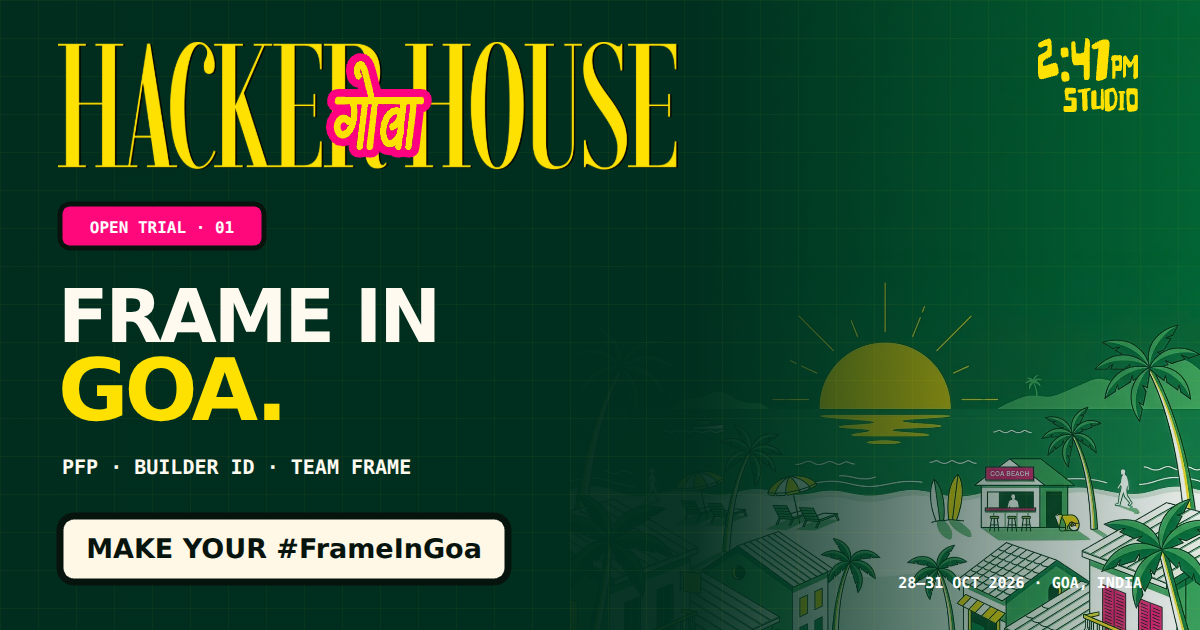
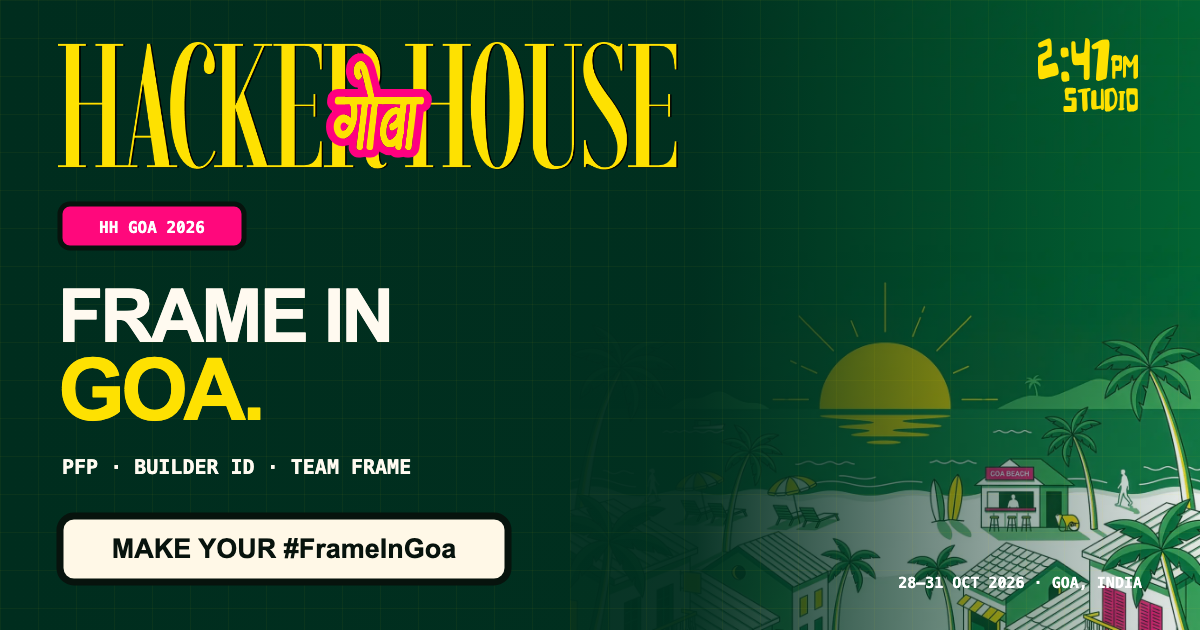
updated ui

diff --git a/src/lib/drawCard.js b/src/lib/drawCard.js
@@ -11,7 +11,10 @@ export const PALETTES = {
     panel: '#FFF8E7',
     ink: '#0B1611',
     green: '#08733F',
-    accent: '#FFD400',
+    // Sampled straight out of the official wordmark PNG. The palette used to carry
+    // #FFD400 here while the logo fallbacks hardcoded #FEE101, so two different
+    // yellows were shipping side by side.
+    accent: '#FEE101',
     pop: '#FF087C',
     soft: '#D9F4DF',
   },
@@ -59,11 +62,10 @@ export function getBuilderId(name, role) {
   return `HHG26-${initials}-${getPassNumber(name, role).slice(-4)}`;
 }
 
-// A teammate only counts once they have both a photo and a name, so the preview
-// shows exactly what the download will contain.
-export function getTeamRoster(teamMembers = []) {
-  const ready = teamMembers.filter((member) => member.photo?.image && member.name.trim());
-  return ready.length >= 2 ? ready.slice(0, 4) : [];
+// A slot is only ready to print once it has both a photo and a name. The preview
+// still draws every slot you have added, so adding one is visible immediately.
+export function isMemberComplete(member) {
+  return Boolean(member?.photo?.image && member?.name?.trim());
 }
 
 function roundedRect(ctx, x, y, width, height, radius, fill, stroke, strokeWidth = 0) {
@@ -280,6 +282,19 @@ function drawStudioMark(ctx, assets, x, y, width, height) {
   ctx.fillText('2:47PM', x + width / 2, y + height / 2);
 }
 
+// A panel with a colour strip down its leading edge. The strip is clipped to the
+// rounded path so it stops poking out past the corner radius.
+function drawEdgePanel(ctx, x, y, width, height, radius, fill, edge, edgeWidth, stroke, strokeWidth) {
+  roundedRect(ctx, x, y, width, height, radius, fill);
+  ctx.save();
+  roundedRect(ctx, x, y, width, height, radius);
+  ctx.clip();
+  ctx.fillStyle = edge;
+  ctx.fillRect(x, y, edgeWidth, height);
+  ctx.restore();
+  if (stroke && strokeWidth) roundedRect(ctx, x, y, width, height, radius, null, stroke, strokeWidth);
+}
+
 function drawTape(ctx, x, y, width, height, rotation, color) {
   ctx.save();
   ctx.translate(x + width / 2, y + height / 2);
@@ -328,11 +343,11 @@ function drawPfp(ctx, state, palette) {
   drawBrandLockup(ctx, state.brandAssets, 76, 38, 760, 148);
   drawStudioMark(ctx, state.brandAssets, 900, 46, 112, 92);
 
-  roundedRect(ctx, 78, 184, 260, 54, 18, palette.pop, palette.ink, 6);
+  roundedRect(ctx, 78, 184, 230, 54, 18, palette.pop, palette.ink, 6);
   ctx.fillStyle = '#FFFFFF';
   ctx.font = '800 18px "Space Mono", monospace';
   ctx.textAlign = 'center';
-  ctx.fillText('OPEN TRIAL · 01', 208, 219);
+  ctx.fillText('HH GOA 2026', 193, 219);
 
   ctx.fillStyle = palette.accent;
   ctx.textAlign = 'right';
@@ -365,20 +380,20 @@ function drawPfp(ctx, state, palette) {
   drawTape(ctx, 114, 400, 170, 48, -0.14, palette.accent);
   drawTape(ctx, 790, 738, 170, 48, 0.12, palette.accent);
 
+  // Brand yellow on the dark panel, the way the wordmark is set. Yellow on the old
+  // cream panel would have been about 1.4:1 and unreadable.
   const badge = (badgeText || 'FRAME IN GOA').toUpperCase().slice(0, 36);
-  roundedRect(ctx, 108, 872, 864, 112, 20, palette.panel, palette.ink, 9);
-  ctx.fillStyle = palette.pop;
-  ctx.fillRect(108, 872, 18, 112);
-  ctx.fillStyle = palette.ink;
+  drawEdgePanel(ctx, 108, 872, 864, 112, 20, palette.ink, palette.pop, 18, palette.accent, 9);
+  ctx.fillStyle = palette.accent;
   ctx.textAlign = 'center';
   const badgeSize = fitText(ctx, badge, 760, 42, 24, 'Syne', 800);
   ctx.font = `800 ${badgeSize}px "Syne", sans-serif`;
   ctx.fillText(badge, 548, 938);
 
-  roundedRect(ctx, 290, 990, 500, 52, 16, palette.ink, palette.accent, 4);
-  ctx.fillStyle = '#FFFFFF';
+  roundedRect(ctx, 350, 990, 380, 52, 16, palette.panel, palette.ink, 4);
+  ctx.fillStyle = palette.ink;
   ctx.font = '800 20px "Space Mono", monospace';
-  ctx.fillText('HHGOA.COM  ·  TASK 01', 540, 1024);
+  ctx.fillText('HHGOA.COM', 540, 1024);
 }
 
 function drawPass(ctx, state, palette) {
@@ -400,11 +415,11 @@ function drawPass(ctx, state, palette) {
   ctx.fillText('28–31 OCT 2026', 1016, 172);
   ctx.fillText('GOA, INDIA', 1016, 198);
 
-  roundedRect(ctx, 66, 190, 392, 56, 18, palette.pop, palette.ink, 6);
+  roundedRect(ctx, 66, 190, 240, 56, 18, palette.pop, palette.ink, 6);
   ctx.fillStyle = '#FFFFFF';
   ctx.font = '800 19px "Space Mono", monospace';
   ctx.textAlign = 'center';
-  ctx.fillText('OPEN TRIAL · BUILDER ID', 262, 226);
+  ctx.fillText('BUILDER ID', 186, 226);
 
   roundedRect(ctx, 62, 266, 596, 632, 20, palette.panel, palette.ink, 10);
   drawPhotoCover(ctx, state.photo, 84, 288, 552, 516, 10);
@@ -457,9 +472,7 @@ function drawPass(ctx, state, palette) {
   ctx.font = '800 16px "Space Mono", monospace';
   ctx.fillText(builderId, 710, 854);
 
-  roundedRect(ctx, 62, 924, 956, 134, 18, palette.panel, palette.ink, 10);
-  ctx.fillStyle = palette.pop;
-  ctx.fillRect(62, 924, 18, 134);
+  drawEdgePanel(ctx, 62, 924, 956, 134, 18, palette.panel, palette.pop, 18, palette.ink, 10);
   ctx.fillStyle = palette.ink;
   ctx.textAlign = 'left';
   const nameSize = fitText(ctx, name, 850, 72, 42, 'Syne', 800);
@@ -479,13 +492,9 @@ function drawPass(ctx, state, palette) {
   // Seat the footer on a solid strip. Left over bare artwork it was unreadable.
   roundedRect(ctx, 62, 1212, 956, 84, 18, palette.ink, palette.accent, 5);
   ctx.fillStyle = palette.accent;
-  ctx.textAlign = 'left';
+  ctx.textAlign = 'center';
   ctx.font = '800 22px "Space Mono", monospace';
-  ctx.fillText('HHGOA.COM', 96, 1262);
-  ctx.textAlign = 'right';
-  ctx.fillStyle = '#FFFFFF';
-  ctx.font = '700 16px "Space Mono", monospace';
-  ctx.fillText('TASK 01', 984, 1262);
+  ctx.fillText('HHGOA.COM', 540, 1262);
 }
 
 // Every layout fills the frame down to y=1106 so no arrangement leaves a dead gap
@@ -513,8 +522,9 @@ function getSquadLayout(count) {
 }
 
 function drawSquad(ctx, state, palette) {
-  const roster = getTeamRoster(state.teamMembers);
-  const visibleMembers = roster.length ? roster : state.teamMembers.slice(0, 2);
+  // Draw every slot the user has added, filled in or not, so adding or removing a
+  // teammate changes the frame straight away.
+  const visibleMembers = state.teamMembers.slice(0, 4);
   const teamName = (state.teamName || 'YOUR CREW').trim().toUpperCase();
   const layout = getSquadLayout(visibleMembers.length);
 
@@ -529,9 +539,7 @@ function drawSquad(ctx, state, palette) {
   ctx.fillText('28–31 OCT 2026', 1016, 170);
   ctx.fillText('GOA, INDIA', 1016, 196);
 
-  roundedRect(ctx, 64, 188, 952, 100, 20, palette.panel, palette.ink, 9);
-  ctx.fillStyle = palette.pop;
-  ctx.fillRect(64, 188, 18, 100);
+  drawEdgePanel(ctx, 64, 188, 952, 100, 20, palette.panel, palette.pop, 18, palette.ink, 9);
   ctx.fillStyle = palette.ink;
   ctx.textAlign = 'left';
   const teamSize = fitText(ctx, teamName, 700, 56, 32, 'Syne', 800);

diff --git a/src/App.jsx b/src/App.jsx
@@ -1,7 +1,7 @@
 import React, { useEffect, useMemo, useRef, useState } from 'react';
 import Header from './components/Header.jsx';
 import BuilderCanvas from './components/BuilderCanvas.jsx';
-import { getBuilderClass, getTeamRoster, OUTPUT_SIZES } from './lib/drawCard.js';
+import { getBuilderClass, isMemberComplete, OUTPUT_SIZES } from './lib/drawCard.js';
 
 const MODES = [
   {
@@ -254,12 +254,30 @@ export default function App() {
   }), [badgeText, name, photo, role, teamMembers, teamName]);
 
   const builderClass = getBuilderClass(name, role);
-  const completeTeamMembers = getTeamRoster(teamMembers);
+  const completeTeamMembers = teamMembers.filter(isMemberComplete);
+  // Every slot on the frame has to be filled, so what you see in the preview is
+  // what comes out of the download.
+  const teamReady = teamMembers.length >= 2 && completeTeamMembers.length === teamMembers.length;
   const canGenerate = mode === 'pfp'
     ? Boolean(photo)
     : mode === 'pass'
       ? Boolean(photo && name.trim() && role.trim())
-      : Boolean(teamName.trim() && completeTeamMembers.length >= 2);
+      : Boolean(teamName.trim() && teamReady);
+
+  // Say exactly which slot is short of what, rather than one vague sentence.
+  const describeTeamGap = () => {
+    if (!teamName.trim()) return 'Give the team a name first.';
+    const gaps = teamMembers.flatMap((member, index) => {
+      const missing = [];
+      if (!member.name.trim()) missing.push('a name');
+      if (!member.photo?.image) missing.push('a photo');
+      return missing.length
+        ? [`Builder ${String(index + 1).padStart(2, '0')} still needs ${missing.join(' and ')}`]
+        : [];
+    });
+    if (!gaps.length) return 'You need at least two teammates on the frame.';
+    return `${gaps.join('. ')}. Remove the slot if that person is not coming.`;
+  };
 
   const replacePhoto = async (file, commit) => {
     setBusy(true);
@@ -293,7 +311,7 @@ export default function App() {
   const handleGenerate = () => {
     if (!canGenerate) {
       say(mode === 'squad'
-        ? 'Needs a team name, plus at least two teammates who each have a name and a photo.'
+        ? describeTeamGap()
         : mode === 'pass'
           ? 'Fill in the photo, name and stack first.'
           : 'Pick a photo first.', 'error');
@@ -403,7 +421,7 @@ export default function App() {
       <main>
         <section className="hero">
           <div className="hero-copy">
-            <p className="kicker"><span /> TASK 01 · #FRAMEINGOA</p>
+            <p className="kicker"><span /> #FRAMEINGOA</p>
             <h1>Build your HH Goa <em>frame.</em></h1>
             <p className="hero-description">
               Drop in a photo, type your details, save the PNG. It all runs in this tab.
@@ -527,7 +545,7 @@ export default function App() {
                       </article>
                     ))}
                   </div>
-                  <p className="photo-rule">Real photos of the actual teammates. A name and a photo each, or they will not show up on the frame.</p>
+                  <p className="photo-rule">Real photos of the actual teammates. Every slot on the frame needs a name and a photo before you can generate.</p>
 
                   {selectedMember?.photo ? (
                     <div className="member-crop-panel">
@@ -591,7 +609,7 @@ export default function App() {
       ) : null}
 
       <footer>
-        <span>HH GOA 2026 · TASK 01</span>
+        <span>HH GOA 2026</span>
         <span>#FrameInGoa</span>
       </footer>
     </div>

diff --git a/index.html b/index.html
@@ -9,15 +9,15 @@
     <meta property="og:type" content="website" />
     <meta property="og:title" content="Frame In Goa · HH Goa 2026" />
     <meta property="og:description" content="Your photo, an HH Goa frame, and a PNG you can post. Runs entirely in the browser." />
-    <meta property="og:url" content="https://hacker-house-9j47.vercel.app/" />
-    <meta property="og:image" content="https://hacker-house-9j47.vercel.app/og-cover.png" />
+    <meta property="og:url" content="https://hacker-house-gamma.vercel.app/" />
+    <meta property="og:image" content="https://hacker-house-gamma.vercel.app/og-cover.png" />
     <meta property="og:image:width" content="1200" />
     <meta property="og:image:height" content="630" />
     <meta property="og:image:alt" content="Frame In Goa: PFP, builder ID and team frame generator" />
     <meta name="twitter:card" content="summary_large_image" />
     <meta name="twitter:title" content="Frame In Goa · HH Goa 2026" />
     <meta name="twitter:description" content="Build your PFP, builder ID or team frame for #FrameInGoa." />
-    <meta name="twitter:image" content="https://hacker-house-9j47.vercel.app/og-cover.png" />
+    <meta name="twitter:image" content="https://hacker-house-gamma.vercel.app/og-cover.png" />
     <title>Frame In Goa · HH Goa 2026</title>
     <link rel="preconnect" href="https://fonts.googleapis.com">
     <link rel="preconnect" href="https://fonts.gstatic.com" crossorigin>

diff --git a/src/components/Header.jsx b/src/components/Header.jsx
@@ -12,7 +12,6 @@ export default function Header() {
         </a>
 
         <div className="header-task">
-          <span>TASK 01</span>
           <strong>FRAME / ID GENERATOR</strong>
         </div>
 

diff --git a/style.css b/style.css
@@ -5,7 +5,7 @@
   --forest: #063f2a;
   --forest-dark: #03291d;
   --green: #08733f;
-  --acid: #ffd400;
+  --acid: #fee101;
   --pink: #ff087c;
   --muted: #627068;
   --line: rgba(11, 23, 16, 0.2);

diff --git a/README.md b/README.md
@@ -1,8 +1,8 @@
 # Frame In Goa · HH Goa 2026
 
-A small browser tool for HH Goa 2026 Shortlisting Task 01. You give it a photo and
-your details, it gives you back a PNG you can post. There is no login, no upload
-server, and no cropping in a separate app first.
+A small browser tool for HH Goa 2026. You give it a photo and your details, it
+gives you back a PNG you can post. There is no login, no upload server, and no
+cropping in a separate app first.
 
 ## What it makes
 
@@ -37,7 +37,8 @@ Every photo is processed in the browser. Nothing is uploaded anywhere.
 
 The Hacker House wordmark, the गोवा lockup, the 2:47PM Studio mark and the Goa
 sunrise illustration all come from [hhgoa.com](https://hhgoa.com/). This is a
-community build for Open Trial 01. It does not represent admission or selection.
+community build. The graphics it makes are for sharing, and do not represent
+admission or selection.
 
 ## Running it
 
@@ -53,7 +54,7 @@ npm run build
 npm run preview
 ```
 
-## Before you submit
+## Posting
 
-One submission per team. Use real photos of real people, attach the generated PNG,
-include the live link, and keep `#FrameInGoa` spelled exactly that way in the post.
+Use real photos of real people, attach the generated PNG rather than only a link,
+and keep `#FrameInGoa` spelled exactly that way.
